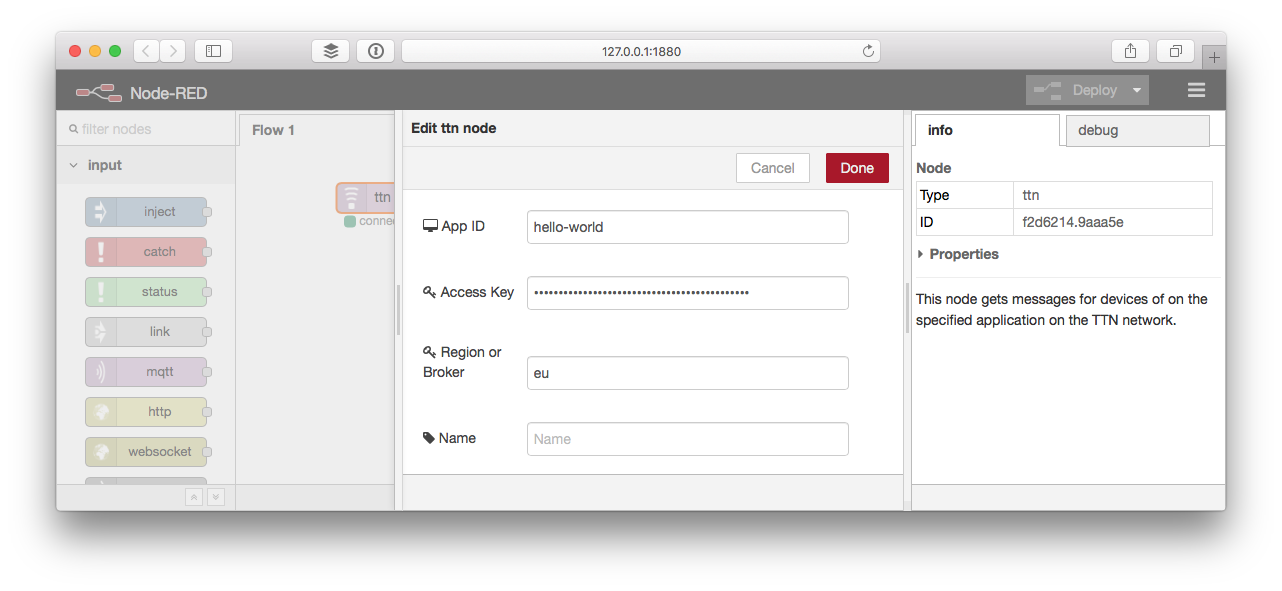
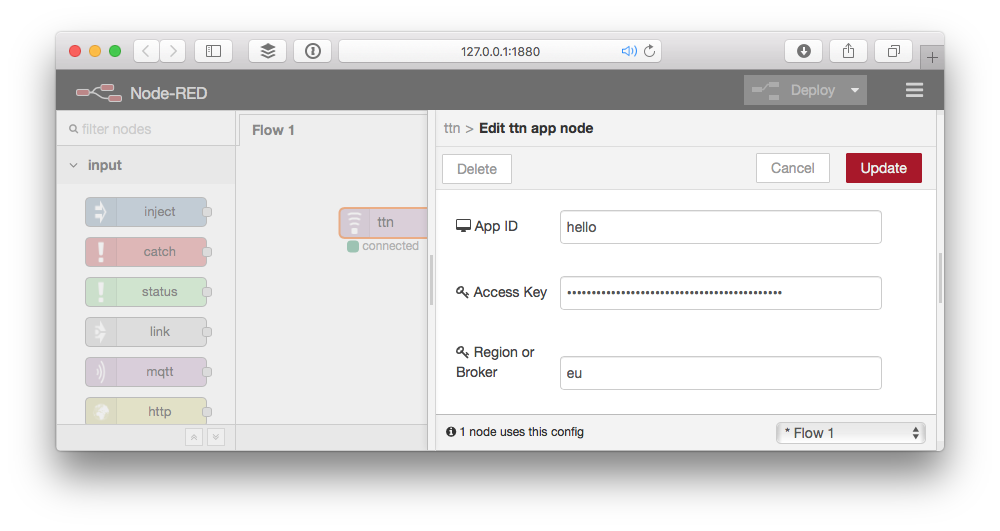
Update Node-RED refactor

diff --git a/_versions/refactor/node-red/_usage.md b/_versions/refactor/node-red/_usage.md
@@ -13,6 +13,7 @@ To use the TTN node you need to configure it for your The Things Network Applica
 
 1.  In Node-RED, drag a **ttn** node from the input category in the toolbox on the left to your workflow.
 2.  Double click the node to edit it.
+3.  Click the `✏` following *Add new ttn app...*.
 
     Copy-paste the following information from the dashboard:
 
@@ -43,49 +44,77 @@ Messages sent by devices on the application can be received via the upper output
 5.  Soon after a device sends a message to your application you should see it come in like this:
     
     ![Debug message](node-red-debug-message.png)
-
-    By default the debug node only shows `msg.payload`, which is mapped to `msg.payload_fields` or `msg.payload_raw` of the original message received via MQTT. If you followed the [The Things Uno Quick Start](/uno/#quick-start) this would look like:
+    
+    Nicely formatted, the debug output would look like:
 
     ```json
-    { 
-      "led": true
+    {
+    	"port": 1,
+    	"counter": 8,
+    	"payload_raw": {
+    		"type": "Buffer",
+    		"data": [0]
+    	},
+    	"payload_fields": {
+    		"led": false
+    	},
+    	"metadata": {
+    		"time": "2016-09-27T12:31:08.240406665Z",
+    		"frequency": 867.9,
+    		"modulation": "LORA",
+    		"data_rate": "SF7BW125",
+    		"coding_rate": "4/5",
+    		"gateways": [{
+    			"gtw_id": "eui-b827ebfffe87bd22",
+    			"timestamp": 1050972876,
+    			"time": "2016-09-27T12:31:08.22156Z",
+    			"channel": 7,
+    			"rssi": -105,
+    			"snr": 7.5
+    		}]
+    	}
     }
     ```
+    
+    By default the debug node only shows `msg.payload`, which does not include the ID of the device that sent the message.
     
 6.  Double click the **debug** node to edit it.
 7.  Click the gray part of the **Output** value, select **complete msg object** and click **Done**:
     
     ![Output complete msg object](node-red-debug-edit.png)
     
-8.  Click **Deploy** to see the next message in full, e.g.:
+8.  Click **Deploy** to see the next message in full, including the `devId`:
 
     ```json
     {
-      "dev_id": "my-uno",
-      "app_id": "hello-world",
-      "port": 1,
-      "counter": 19,
-      "payload_raw": "AQ==",
-      "payload_fields": {
-        "led": true
-      },
-      "metadata": {
-        "time": "2016-09-08T13:52:35.929159899Z",
-        "frequency": 867.3,
-        "modulation": "LORA",
-        "data_rate": "SF7BW125",
-        "coding_rate": "4/5",
-        "gateways": [{
-          "eui": "B827EBFFFE87BD22",
-          "timestamp": 792136819,
-          "time": "2016-09-08T13:52:35.912385Z",
-          "channel": 4,
-          "rssi": -55,
-          "snr": 10.2
-        }]
-      },
-      "payload": "[circular]",
-      "_msgid": "f4fb1670.0b04e8"
+    	"devId": "my-uno",
+    	"payload": {
+    		"port": 1,
+    		"counter": 31,
+    		"payload_raw": {
+    			"type": "Buffer",
+    			"data": [0]
+    		},
+    		"payload_fields": {
+    			"led": false
+    		},
+    		"metadata": {
+    			"time": "2016-09-27T12:35:46.8640105Z",
+    			"frequency": 867.1,
+    			"modulation": "LORA",
+    			"data_rate": "SF7BW125",
+    			"coding_rate": "4/5",
+    			"gateways": [{
+    				"gtw_id": "eui-b827ebfffe87bd22",
+    				"timestamp": 1329587859,
+    				"time": "2016-09-27T12:35:46.842692Z",
+    				"channel": 3,
+    				"rssi": -111,
+    				"snr": 6.2
+    			}]
+    		}
+    	},
+    	"_msgid": "426db946.bd9248"
     }
     ```
 
@@ -98,30 +127,28 @@ Device activations are sent from the lower node output.
 
     ```json
     {
-      "dev_id": "my-uno",
-      "app_id": "hello-world",
-      "app_eui": "70B3D57EF000001C",
-      "dev_eui": "0004A30B001B7AD2",
-      "dev_addr": "26012084",
-      "metadata": {
-        "time": "2016-09-08T14:04:52.755064047Z",
-        "frequency": 868.5,
-        "modulation": "LORA",
-        "data_rate": "SF7BW125",
-        "coding_rate": "4/5",
-        "gateways": [{
-          "eui": "B827EBFFFE87BD22",
-          "timestamp": 1528942955,
-          "time": "2016-09-08T14:04:52.716713Z",
-          "channel": 2,
-          "rssi": -57,
-          "snr": 7.5,
-          "rf_chain": 1
-        }]
+      "devId": "my-uno",
+      "payload": {
+        "app_eui": "70B3D57EF000001C",
+        "dev_eui": "0004A30B001B7AD2",
+        "dev_addr": "26012084",
+        "metadata": {
+          "time": "2016-09-08T14:04:52.755064047Z",
+          "frequency": 868.5,
+          "modulation": "LORA",
+          "data_rate": "SF7BW125",
+          "coding_rate": "4/5",
+          "gateways": [{
+            "eui": "B827EBFFFE87BD22",
+            "timestamp": 1528942955,
+            "time": "2016-09-08T14:04:52.716713Z",
+            "channel": 2,
+            "rssi": -57,
+            "snr": 7.5,
+            "rf_chain": 1
+          }]
+        }
       },
-      "payload": "my-uno",
       "_msgid": "10d6a2ba.ef295d"
     }
     ```
-  
-    Ask you can see the default `msg.payload` field is mapped to `msg.dev_id` which gives you the ID of the activated device.

diff --git a/_versions/refactor/node-red/_quickstart.md b/_versions/refactor/node-red/_quickstart.md
@@ -38,7 +38,7 @@ Let's start on IFTTT.
 
 7.  Click **Create Action**.
 8.  Click **Create Recipe**.
-12. Go to the [Maker Channel](https://ifttt.com/maker) to find your key.
+9.  Go to the [Maker Channel](https://ifttt.com/maker) to find your key.
 
 ## Wire your Node-RED flow
 If you haven't done so already, follow [Setup](#setup) and [Usage / Configure](#configure) to setup Node-RED, the TTN Node and configure it to connect to your application. I'll be here waiting for you. 😴
@@ -54,7 +54,7 @@ If you haven't done so already, follow [Setup](#setup) and [Usage / Configure](#
     ```javascript
     return {
         payload: {
-            value1: msg.payload.led ? 'on' : 'off'
+            value1: msg.payload.payload_fields.led ? 'on' : 'off'
         }
     };
     ```
